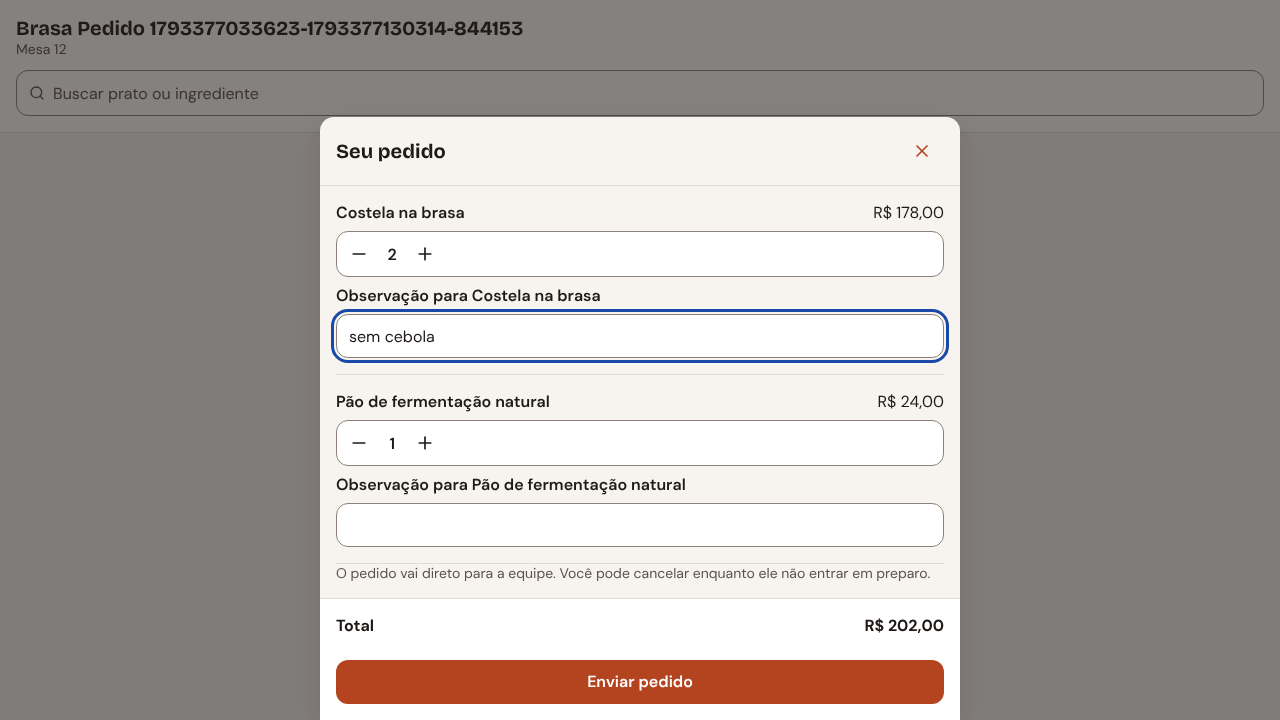
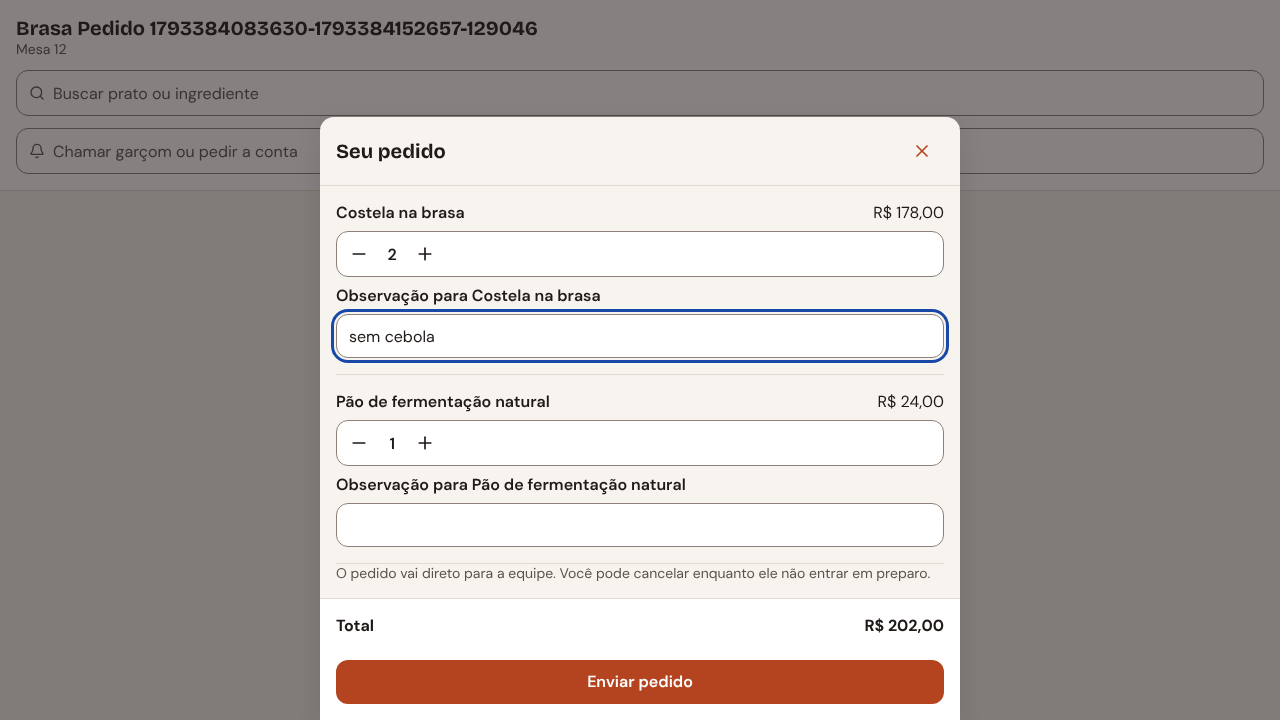
docs: chamados, conta e avaliação no ADR 0016 e prompt do M12
Claude-Session: https://claude.ai/code/session_01EnNbjCwYSTBV12kMqmKXVQ

Changed region(s): [[0.1562, 0.0306, 0.4375, 0.0611], [0.1562, 0.1833, 0.1875, 0.2444], [0.0625, 0.2139, 0.125, 0.2444]]

diff --git a/docs/adr/0016-chamados-conta-e-avaliacao.md b/docs/adr/0016-chamados-conta-e-avaliacao.md
@@ -1,0 +1,129 @@
+# ADR 0016: Chamados, conta e avaliação
+
+- Situação: proposta (M12)
+- Data: 2026-10-30
+
+## Contexto
+
+O M12 deixa o cliente chamar o garçom e pedir a conta com um toque, ver o
+resumo da conta com taxa e divisão, e, ao fim da visita, ver o agradecimento
+com "Avaliar no Google". A equipe ainda não vê os chamados em tempo real (M13).
+As regras do prompt (`docs/prompts/m12-chamar-garcom-conta-e-avaliacao.md`)
+valem como requisito.
+
+Decisões do John antes de codar (2026-10-30):
+
+1. Instagram: novo `link_instagram` na personalização, com campo no painel;
+   sem link, o botão não aparece.
+2. Fechamento: `sessoes_mesa.motivo_fechamento` (`expirada` ou `encerrada`);
+   linhas antigas já fechadas entram como `expirada`. A rota da sessão só diz o
+   estado da sessão do próprio cookie.
+3. Conta: uma chamada só devolve subtotal, taxa, totais com e sem taxa e a
+   tabela por pessoa de 1 a 20 nos dois casos. O cliente só escolhe o valor a
+   exibir. A conta é buscada de novo ao abrir a tela ou quando um pedido muda.
+4. Inadimplente ou fechado: chamar garçom e pedir conta continuam funcionando.
+
+## Decisões
+
+### Banco
+
+Migração `0015_chamados_e_conta.sql`, pelo padrão do ADR 0006 (RLS forçado,
+política `FOR ALL TO app_runtime`, fábrica, testes 1 a 8):
+
+- `chamados`: tipo `garcom` ou `conta`; situação `aguardando`,
+  `em_atendimento`, `concluido` ou `cancelado`; único por
+  `(restaurante_id, chave_idempotencia)`; índice único parcial "um aberto
+  (aguardando ou em atendimento) por tipo e sessão". O `app_runtime` só altera
+  `situacao`, `assumido_por` e `atualizado_em`, e um gatilho recusa transição
+  fora da ordem, como em `pedidos`.
+- `sessoes_mesa.motivo_fechamento`, com `CHECK` de que ele existe se e só se
+  `fechada_em` existe. A rotina de expiração e a reabertura de sessão vencida
+  gravam `expirada`; o M13 gravará `encerrada`. O backfill desliga a RLS
+  forçada só dentro da transação da migração, como no ADR 0014.
+- `personalizacoes.link_instagram`: só `https://instagram.com/<perfil>` ou
+  `https://www.instagram.com/<perfil>`, até 300 caracteres. A mesma regra vale
+  no domínio e na tela do painel.
+
+### Chamado: um toque basta
+
+`ChamarGarcom` e `PedirConta` exigem `Idempotency-Key` (uuid v7). Numa
+transação curta:
+
+1. Sessão aberta e não vencida; senão, 401 com o caminho de escanear de novo.
+2. Trava consultiva por sessão e tipo e outra pela chave: toques simultâneos,
+   com chaves iguais ou diferentes, esperam um pelo outro.
+3. A mesma chave devolve o mesmo chamado; um chamado aberto do mesmo tipo é
+   devolvido sem criar outro (200). Só então grava o novo (201) e
+   `ChamadoCriado` na outbox, na mesma transação.
+
+O índice único parcial é a última barreira se alguém escapar das travas.
+Garçom e conta convivem. Cancelar: só o cliente, só enquanto aguardando,
+gravando `ChamadoCancelado`. Restaurante inadimplente ou fechado não bloqueia
+chamado: a regra 8 suspende pedidos, e o cliente que já está na mesa precisa
+poder chamar e pagar.
+
+### Conta calculada no servidor
+
+`GET /api/v1/mesa/conta` soma os pedidos não cancelados da sessão, com os
+preços copiados no momento do pedido (ADR 0015), e devolve:
+
+| Campo                                               | Regra                                                            |
+| --------------------------------------------------- | ---------------------------------------------------------------- |
+| `subtotalCentavos`                                  | soma dos `total_centavos` dos pedidos não cancelados             |
+| `taxaCentavos`                                      | `floor((subtotal × 10 + 50) / 100)`: 10%, meio centavo para cima |
+| `totalComTaxaCentavos` / `totalSemTaxaCentavos`     | subtotal com e sem a taxa                                        |
+| `porPessoa.comTaxa[n-1]` / `porPessoa.semTaxa[n-1]` | `ceil(total / n)`, n de 1 a 20                                   |
+
+A taxa é só exibição; a cobrança real é com o garçom. A divisão arredonda para
+cima e mostra o total exato ao lado. O interruptor da taxa e o seletor de
+pessoas só escolhem qual valor do servidor mostrar; nenhum total é calculado no
+cliente.
+
+### Sessão: aberta, encerrada ou expirada
+
+`GET /api/v1/mesa/sessao` lê só a sessão do cookie assinado e devolve só
+`{ situacao }`. Sem cookie, cookie inválido ou sessão de outro restaurante:
+`expirada`. O app consulta a cada 30 s; com `encerrada`, mostra o
+agradecimento. A sessão vencida por tempo continua na tela do M09 ("escaneie de
+novo").
+
+### Avaliação e Instagram
+
+"Avaliar no Google" usa o `link_avaliacao_google` da personalização (M04) e
+aparece para todos os clientes, sem filtro de satisfação (regra 9 e a política
+do Google contra review gating). Abre em nova aba com `rel="noopener"`. Sem
+link, o botão não aparece; o mesmo vale para "Seguir no Instagram".
+
+### Cliente e orçamento de JavaScript
+
+- As três telas (o que você precisa, conta, agradecimento) vão para um chunk
+  sob demanda próprio, como o carrinho. No bundle inicial ficam o link no
+  cabeçalho e a consulta da sessão a cada 30 s.
+- Com dois chunks sob demanda compartilhando módulos, o empacotador dividiu a
+  carga inicial em `index`, `react` e um chunk comum (sem mudar o total de
+  forma relevante: +3,3 KB transferidos em relação ao M11).
+- Achado do axe: a barra flutuante do pedido (M11) ficava fora de qualquer
+  região; agora está num `<nav aria-label="Seu pedido">`.
+
+| Medida (Lighthouse, 4G simulado, 3 execuções) | JS transferido                | LCP                      |
+| --------------------------------------------- | ----------------------------- | ------------------------ |
+| M11                                           | 114.861 / 114.861 / 114.861 B | 1.802 / 2.363 / 1.891 ms |
+| M12                                           | 118.192 / 118.192 / 118.192 B | 1.726 / 2.173 / 2.332 ms |
+
+## Consequências
+
+- Um toque a mais, uma rede instável ou dois aparelhos na mesma mesa não criam
+  chamado duplicado.
+- O agradecimento só aparece de verdade quando o M13 encerrar a sessão; até lá,
+  só os testes encerram (direto no banco).
+- O cliente descobre o encerramento em até 30 s.
+- A taxa de serviço exibida pode diferir do que o restaurante cobra; o texto
+  diz que é opcional e que o pagamento é com o garçom.
+
+## Fontes consultadas
+
+- MDN, `rel="noopener"`: https://github.com/mdn/content/blob/main/files/en-us/web/html/reference/attributes/rel/noopener/index.md
+- axe-core, regra `region` (conteúdo dentro de regiões): https://github.com/dequelabs/axe-core/blob/develop/lib/rules/region.json
+- PostgreSQL, índices parciais: https://github.com/postgres/postgres/blob/master/doc/src/sgml/indices.sgml
+- PostgreSQL, travas consultivas: https://github.com/postgres/postgres/blob/master/doc/src/sgml/mvcc.sgml
+- Google, política contra seleção de avaliações (não acessível desta sessão; conferir antes do piloto): https://support.google.com/business/answer/7400114

diff --git a/docs/prompts/m12-chamar-garcom-conta-e-avaliacao.md b/docs/prompts/m12-chamar-garcom-conta-e-avaliacao.md
@@ -1,0 +1,62 @@
+# M12: Chamar garçom, conta e avaliação
+
+## Contexto
+
+M00 a M11 aceitos. O cliente abre a mesa, vê o cardápio e faz pedidos. O cookie de mesa carrega restaurante e sessão (ADR 0015). Falta chamar o garçom, pedir e ver a conta, e encerrar a visita com o convite para avaliar no Google.
+Leia antes: CLAUDE.md; ADRs 0006, 0009, 0012, 0014 e 0015; no plano, a seção 1 (RF04, RF05, RF06, regras 4, 5 e 9) e a seção 3 (tabela `chamados`); e as telas `Chamado.dc.html` e `Conta.dc.html`.
+Antes de tudo, confira no banco se `chamados` existe. Pelo histórico do M06 e do M11, é provável que não: se faltar, crie pelo ADR 0006 (PK composta, RLS forçado, fábricas, testes 1 a 8).
+
+## Objetivo
+
+O cliente chama o garçom ou pede a conta com um toque, sem criar chamado duplicado, e acompanha a situação. Vê o resumo da conta com taxa de serviço opcional e divisão por pessoas. Ao fim da visita, vê o agradecimento com o botão "Avaliar no Google". A equipe ainda não vê o chamado em tempo real (M13): aqui o chamado é gravado com evento na outbox e consultado.
+
+## Escopo
+
+Dentro:
+
+- Domínio: `Chamado` (tipo garçom ou conta; máquina de estados: aguardando, em atendimento, concluído, cancelado), `ResumoDaConta` (subtotal dos pedidos da sessão, taxa de serviço opcional de 10%, divisão por pessoas).
+- Casos de uso: `ChamarGarcom`, `PedirConta` (idempotentes por chave e pelo índice "um chamado aberto por tipo e sessão"), `CancelarChamado` (cliente, enquanto aguardando), `ObterResumoDaConta`.
+- Evento `ChamadoCriado` na outbox, na mesma transação.
+- API: rotas da sessão de mesa, com `Idempotency-Key` na criação.
+- Cliente: tela "Do que você precisa?", acompanhamento do chamado, resumo da conta (taxa e divisão), e a tela final de agradecimento com o botão "Avaliar no Google" e o Instagram.
+- "Avaliar no Google": usa o `link_avaliacao_google` da personalização (M04). Sem link cadastrado, o botão não aparece.
+- Encerrar a visita: a equipe fecha a sessão (no M13); aqui, a tela de agradecimento aparece quando a sessão consta como fechada.
+- ADR 0016.
+
+Fora: a fila da equipe e o tempo real (M13); pagamento na mesa (V2).
+
+## Decisões já tomadas
+
+- Um chamado aberto por tipo e por sessão (índice único parcial). Um segundo toque devolve o chamado que já está aberto, sem criar outro e sem erro para o cliente.
+- O resumo da conta soma os pedidos não cancelados da sessão, com os preços copiados no momento do pedido (M11). Calculado no servidor.
+- Taxa de serviço: opcional, 10%, ligada por padrão, que o cliente pode desligar. É só um cálculo de exibição; a cobrança real é com o garçom. Arredondamento em centavos, documentado.
+- Divisão por pessoas: só exibição, arredondada para cima por pessoa, com o total exato mostrado.
+- "Avaliar no Google" aparece para todos os clientes, sem filtro de satisfação (regra 9 e a política do Google contra review gating).
+- O botão abre o link em nova aba, com `rel="noopener"`.
+- Orçamento de JS: a folga atual é grande (~115 KB de 170). Mesmo assim, as telas novas vão para o chunk sob demanda, como o carrinho.
+
+## Testes obrigatórios
+
+- Toque duplo em "Chamar garçom" cria um chamado só; o segundo devolve o aberto.
+- Chamar garçom e pedir conta ao mesmo tempo: dois chamados (tipos diferentes) convivem.
+- Cancelar: só enquanto aguardando; depois, recusa.
+- Máquina de estados: transições só na ordem.
+- Resumo: soma correta com taxa ligada e desligada; pedido cancelado não entra; divisão por 1, 2, 3 e 7 pessoas com o total exato.
+- Avaliar no Google: aparece com link cadastrado; some sem link; abre em nova aba.
+- Outbox: `ChamadoCriado` gravado na mesma transação.
+- Isolamento: chamado de A nunca aparece para B; `chamados` passa nos testes 1 a 8.
+- Sessão expirada recusa chamado com o caminho de escanear de novo.
+- e2e no Chromium com axe: chamar, acompanhar, cancelar, pedir conta, ver o resumo, tela de agradecimento.
+- Orçamento de JS e LCP ainda dentro do limite (Lighthouse, as três execuções no PR).
+
+## Critério de pronto
+
+`pnpm verificar` e CI verdes; demonstração no PR: chamar o garçom duas vezes (um chamado só), pedir a conta, o resumo com taxa e divisão, e a tela final; os números de JS e LCP. ADR 0016 escrito.
+
+## Proibido
+
+Chamado duplicado; total calculado no cliente; filtrar quem vê o botão de avaliação; `restaurante_id` do cliente; emoji.
+
+## Entrega
+
+Branch da sessão, atualizada a partir da main. Commits por assunto. PR `feat: chamar garçom, conta e avaliação (M12)`, com o que foi criado, demonstração, JS e LCP, riscos e sugestões.

diff --git a/docs/adr/0012-mesas-e-qr.md b/docs/adr/0012-mesas-e-qr.md
@@ -74,6 +74,8 @@ código antigo não vai para histórico nenhum.
 - Trocar `CHAVE_SESSAO_MESA` invalida os cookies de mesa já emitidos.
 - Desde o M11 (ADR 0015), o valor assinado é `restauranteId:sessaoId`, para
   o pedido abrir `comRestaurante()` sem função privilegiada nova.
+- Desde o M12 (ADR 0016), toda sessão fechada tem `motivo_fechamento`:
+  `expirada` (tempo) ou `encerrada` (equipe, a partir do M13).
 
 ### Limite de mesas pelo plano
 
